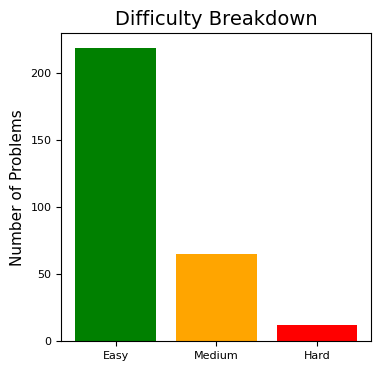
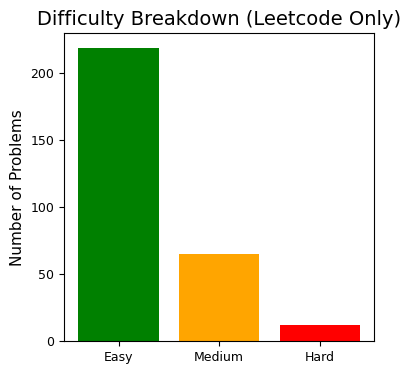
Upadting to fix hackerrank scripts

Changed region(s): [[0.0, 0.0296, 0.9816, 0.9784]]

diff --git a/misc/update_stats.py b/misc/update_stats.py
@@ -1,67 +1,117 @@
 import os
 import json
 from pathlib import Path
+from collections import defaultdict
 
-# Get the root directory of the project
-# Assuming this script is in misc/update_stats.py, we go two levels up to get the root
 ROOT = Path(__file__).resolve().parents[1]
 
-# print(ROOT)
+PLATFORMS = ['leetcode', 'hacker_rank']
+DIFFICULTY_KEYS = ['01_easy', '02_medium', '03_hard']
+VALID_EXTENSIONS = ['.py', '.cpp', '.js', '.ts', '.sql']
 
-# Languages and platforms to support
-STRUCTURE = {
-    'leetcode': ['cpp', 'python', 'js_ts', 'mysql'],
-    'hackerrank': ['problem_solving', 'python']
+# Extension-to-language mapping
+EXT_TO_LANG = {
+    '.py': 'python',
+    '.cpp': 'cpp',
+    '.js': 'js_ts',
+    '.ts': 'js_ts',
+    '.sql': 'mysql'
 }
 
-def countProblems(baseFolder):
+def get_subfolders(path: Path):
+    return [f.name for f in path.iterdir() if f.is_dir()]
 
-    # Folderlist refers to the folder naming convention used
-    # Each repository has three folders for different difficulty levels
-    folderList = {'01_easy': 0, '02_medium': 0, '03_hard': 0}
-    
-    for difficulty in folderList:
+def count_leetcode_problems(path: Path):
+    counts = {key: 0 for key in DIFFICULTY_KEYS}
+    lang_total = 0
+    ext_counts = defaultdict(int)
 
-        # Append the difficulty level (following the folder naming convention) to the base folder
-         
-        diffDirectory = baseFolder / difficulty
+    for diff in DIFFICULTY_KEYS:
+        diff_path = path / diff
+        if diff_path.exists():
+            for f in diff_path.iterdir():
+                if f.is_file() and f.suffix in VALID_EXTENSIONS:
+                    counts[diff] += 1
+                    ext = f.suffix
+                    ext_counts[EXT_TO_LANG.get(ext, 'other')] += 1
+                    lang_total += 1
 
-        # Check if the directory exists
+    return counts, ext_counts, lang_total
 
-        if diffDirectory.exists():
-            
-            folderList[difficulty] = len([
-                # List all files in the directory that match the specified extensions
-                oneFile for oneFile in diffDirectory.iterdir() if (oneFile.is_file() and oneFile.suffix in ['.py', '.cpp', '.js', '.ts', '.sql'])                
-            ])
+def count_hacker_rank_problems(path: Path):
+    count = 0
+    ext_counts = defaultdict(int)
 
-    return folderList
+    for root, _, files in os.walk(path):
+        for file in files:
+            ext = Path(file).suffix
+            if ext in VALID_EXTENSIONS:
+                lang = EXT_TO_LANG.get(ext, 'other')
+                ext_counts[lang] += 1
+                count += 1
 
-stats = {'platforms': {}, 'total': 0, 'by_language': {}, 'by_difficulty': {'01_easy': 0, '02_medium': 0, '03_hard': 0}}
+    return count, ext_counts
 
-for platformWebsite, languagesUsed in STRUCTURE.items():
+def count_total_all_files(root_path: Path):
+    count = 0
+    for path, _, files in os.walk(root_path):
+        for file in files:
+            if Path(file).suffix in VALID_EXTENSIONS:
+                count += 1
+    return count
 
-    for oneLanguage in languagesUsed:
-        
-        path = ROOT / platformWebsite / oneLanguage
-        if not path.exists():
-            continue
+# Folder structure detection
+STRUCTURE = {platform: get_subfolders(ROOT / platform) for platform in PLATFORMS}
 
-        langKey = f"{platformWebsite}/{oneLanguage}"
+# Final stats object
+stats = {
+    'platforms': {},
+    'total': 0,
+    'by_language': defaultdict(int),
+    'leetcode_only': {key: 0 for key in DIFFICULTY_KEYS},
+    'hacker_rank_only': {}
+}
 
-        difficultyCounter = countProblems(path)
+# Leetcode section
+for lang_folder in STRUCTURE['leetcode']:
+    path = ROOT / 'leetcode' / lang_folder
+    if not path.exists():
+        continue
 
-        stats['platforms'][langKey] = difficultyCounter
+    lang_key = f"leetcode/{lang_folder}"
+    diff_counts, ext_counts, total_files = count_leetcode_problems(path)
+    stats['platforms'][lang_key] = diff_counts
 
-        for diff, count in difficultyCounter.items():
-            
-            stats['total'] += count
-            stats['by_difficulty'][diff] += count
-            stats['by_language'].setdefault(oneLanguage, 0)
-            stats['by_language'][oneLanguage] += count
+    for diff, count in diff_counts.items():
+        stats['leetcode_only'][diff] += count
 
-# Save to stats.json at root
+    for lang, count in ext_counts.items():
+        stats['by_language'][lang] += count
+
+# HackerRank section
+for topic_folder in STRUCTURE['hacker_rank']:
+    path = ROOT / 'hacker_rank' / topic_folder
+    if not path.exists():
+        continue
+
+    count, ext_counts = count_hacker_rank_problems(path)
+    stats['platforms'][f"hacker_rank/{topic_folder}"] = count
+    stats['hacker_rank_only'][topic_folder] = count
+
+    for lang, cnt in ext_counts.items():
+        stats['by_language'][lang] += cnt
+
+# Final total
+stats['total'] = (
+    count_total_all_files(ROOT / 'leetcode') +
+    count_total_all_files(ROOT / 'hacker_rank')
+)
+
+# Convert defaultdict to dict before saving
+stats['by_language'] = dict(stats['by_language'])
+
+# Save
 with open(ROOT / 'stats.json', 'w') as f:
     json.dump(stats, f, indent=2)
 
-
+print("stats.json updated successfully.")

diff --git a/misc/chart_language.py b/misc/chart_language.py
@@ -1,42 +1,53 @@
 import json
-import random
 import matplotlib.pyplot as plt
 from pathlib import Path
 
-# Load counts from stats.json
-with open("stats.json") as f:
+# Resolve root directory relative to script's location
+ROOT = Path(__file__).resolve().parents[1]
+
+# Load stats.json
+with open(ROOT / "stats.json") as f:
     stats = json.load(f)
 
-data = stats['by_language']
+data = stats.get('by_language', {})
+if not data:
+    raise ValueError("No language data found in stats.json.")
 
 labels = list(data.keys())
 sizes = list(data.values())
 
-explode = [0] * len(labels)  
-# Explode the maximum value
+# Explode the largest segment
+explode = [0.1 if i == max(sizes) else 0 for i in sizes]
 
-max_index = sizes.index(max(sizes))
-explode[max_index] = 0.1
-
+# Define static color palette (safe for up to 14 languages)
 colors = [
     "#F87171", "#60A5FA", "#34D399", "#FCD34D",
     "#A78BFA", "#FB923C", "#4ADE80", "#38BDF8", "#F472B6",
     "#FACC15", "#818CF8", "#5EEAD4", "#C084FC", "#FBBF24"
 ]
-
-# We get number of labels, and then randomly select that many colors, assuming there are enough colors
 colors = colors[:len(labels)]
 
+# Plot
 plt.figure(figsize=(4, 4))
+plt.pie(
+    sizes,
+    labels=None,
+    colors=colors,
+    startangle=180,
+    explode=explode,
+    shadow=False
+)
+plt.axis('equal')  # Keep aspect ratio as a circle
+plt.title("Language Distribution", fontsize=14)
 
-plt.pie(sizes, colors=colors, startangle=180, explode=explode, shadow=True)
-
-plt.axis('equal')  # Pie Circle
-plt.title('Language Distribution')
-
-# Want the legend to be snug with the border
+# Add legend
 plt.legend(labels, title="Languages", loc="lower right", fontsize=8)
 plt.tight_layout()
 
-Path("assets").mkdir(exist_ok=True)
-plt.savefig("assets/chart_language.png")
+# Save to assets/chart_language.png
+assets_path = ROOT / "assets"
+assets_path.mkdir(exist_ok=True)
+plt.savefig(assets_path / "chart_language.png", bbox_inches='tight')
+plt.close()
+
+print("Language chart saved to assets/chart_language.png")

diff --git a/misc/chart_difficulty.py b/misc/chart_difficulty.py
@@ -2,12 +2,18 @@ import json
 import matplotlib.pyplot as plt
 from pathlib import Path
 
-with open("stats.json") as f:
+# Define root directory (one level above /misc)
+ROOT = Path(__file__).resolve().parents[1]
+
+# Load stats.json from the root
+with open(ROOT / "stats.json") as f:
     stats = json.load(f)
 
-diffs = stats['by_difficulty']
-labels = ['Easy', 'Medium', 'Hard']
+# Use the leetcode_only section of the stats
+diffs = stats['leetcode_only']
 
+# Difficulty labels and corresponding values
+labels = ['Easy', 'Medium', 'Hard']
 values = [
     diffs.get('01_easy', 0),
     diffs.get('02_medium', 0),
@@ -15,15 +21,19 @@ values = [
 ]
 colors = ['green', 'orange', 'red']
 
+# Plotting
 plt.figure(figsize=(4, 4))
 plt.bar(labels, values, color=colors)
 
-plt.title("Difficulty Breakdown", fontsize=14)
+plt.title("Difficulty Breakdown (Leetcode Only)", fontsize=14)
 plt.ylabel("Number of Problems", fontsize=11)
+plt.xticks(fontsize=9)
+plt.yticks(fontsize=9)
 
-plt.xticks(fontsize=8)
-plt.yticks(fontsize=8)
-
-Path("assets").mkdir(exist_ok=True)
-plt.savefig("assets/chart_difficulty.png", bbox_inches='tight')
+# Save output to assets/chart_difficulty.png
+assets_dir = ROOT / "assets"
+assets_dir.mkdir(exist_ok=True)
+plt.savefig(assets_dir / "chart_difficulty.png", bbox_inches='tight')
 plt.close()
+
+print("Difficulty chart saved to assets/chart_difficulty.png")

diff --git a/README.md b/README.md
@@ -4,34 +4,36 @@
 ![Python](https://img.shields.io/badge/dynamic/json?url=https://raw.githubusercontent.com/Nikhil-Singla/the-daily-grind/main/stats.json&label=Python&query=$.by_language.python&color=yellow)
 ![C++](https://img.shields.io/badge/dynamic/json?url=https://raw.githubusercontent.com/Nikhil-Singla/the-daily-grind/main/stats.json&label=C%2B%2B&query=$.by_language.cpp&color=green)
 ![JavaScript/TS](https://img.shields.io/badge/dynamic/json?url=https://raw.githubusercontent.com/Nikhil-Singla/the-daily-grind/main/stats.json&label=JS%2FTS&query=$.by_language.js_ts&color=orange)
+![MySQL](https://img.shields.io/badge/dynamic/json?url=https://raw.githubusercontent.com/Nikhil-Singla/the-daily-grind/main/stats.json&label=MySQL&query=$.by_language.mysql&color=lightgray)
 ![Last Update](https://img.shields.io/github/last-commit/Nikhil-Singla/the-daily-grind)
 ![License](https://img.shields.io/github/license/Nikhil-Singla/the-daily-grind)
 
-> A log of all the algorithmic problems I have solved in Python, C++, SQL etc. on Leetcode. Built to demonstrate my deep understanding of core CS concepts through real-world coding drills, optimizations, and pattern-based thinking.
+> A log of algorithmic problems solved in Python, C++, SQL, JavaScript, and more—across Leetcode and HackerRank. Built to demonstrate deep understanding of core CS concepts through structured coding drills, pattern recognition, and solution design.
 
+---
 
 ## Overview
 
-This repository documents my structured problem-solving journey across a wide range of topics including Dynamic Programming, DSA and Algorithms. Each solution is sometimes accompanied by optimizations and alternative approaches, emphasizing patterns and strategies.
+This repository documents my problem-solving journey across data structures, algorithms, and systems-style challenges. Solutions emphasize clarity, performance, and repeatable reasoning strategies, often including multiple variations and optimizations.
+
+---
 
 ## Stats Summary
 
 <!-- STATS:START -->
-- **Total Problems Solved**: 296
-- **Languages Used**: cpp (236), python (44), js_ts (3), mysql (13)
-- **Difficulty Breakdown**:
-- Easy: 219
-- Medium: 65
-- Hard: 12
+_Stats will be updated automatically by GitHub Actions._
 <!-- STATS:END -->
+
+---
 
 ## Distribution Visualization
 
 <p align="left">
-  <img src="assets/chart_difficulty.png" alt="Language Breakdown", width=308>
-  <img src="assets/chart_language.png" alt="Language Breakdown", width=300>
-
+  <img src="assets/chart_difficulty.png" alt="Difficulty Breakdown" width="320">
+  <img src="assets/chart_language.png" alt="Language Breakdown" width="320">
 </p>
+
+---
 
 ## Folder Structure
 
@@ -47,21 +49,19 @@ the-daily-grind/
 │   │   ├── 01_easy/
 │   │   ├── 02_medium/
 │   │   └── 03_hard/
-│   ├── . . .
-│   .
-├── hackerrank/
+│   ├── ...
+│
+├── hacker_rank/
 │   ├── problem_solving/
-│   │   ├── 01_easy/
-│   │   ├── 02_medium/
-│   │   └── 03_hard/
-│   .
-│   .
+│   ├── python/
+│   └── ...
+│
 ├── assets/              # for charts and visuals
-└── misc/             # for automation and stat generation
+└── misc/                # for stat generation and automation scripts
 </pre>
 
 ---
 
-## 📜 License
+## License
 
 MIT License © [Nikhil Singla](https://github.com/Nikhil-Singla)
